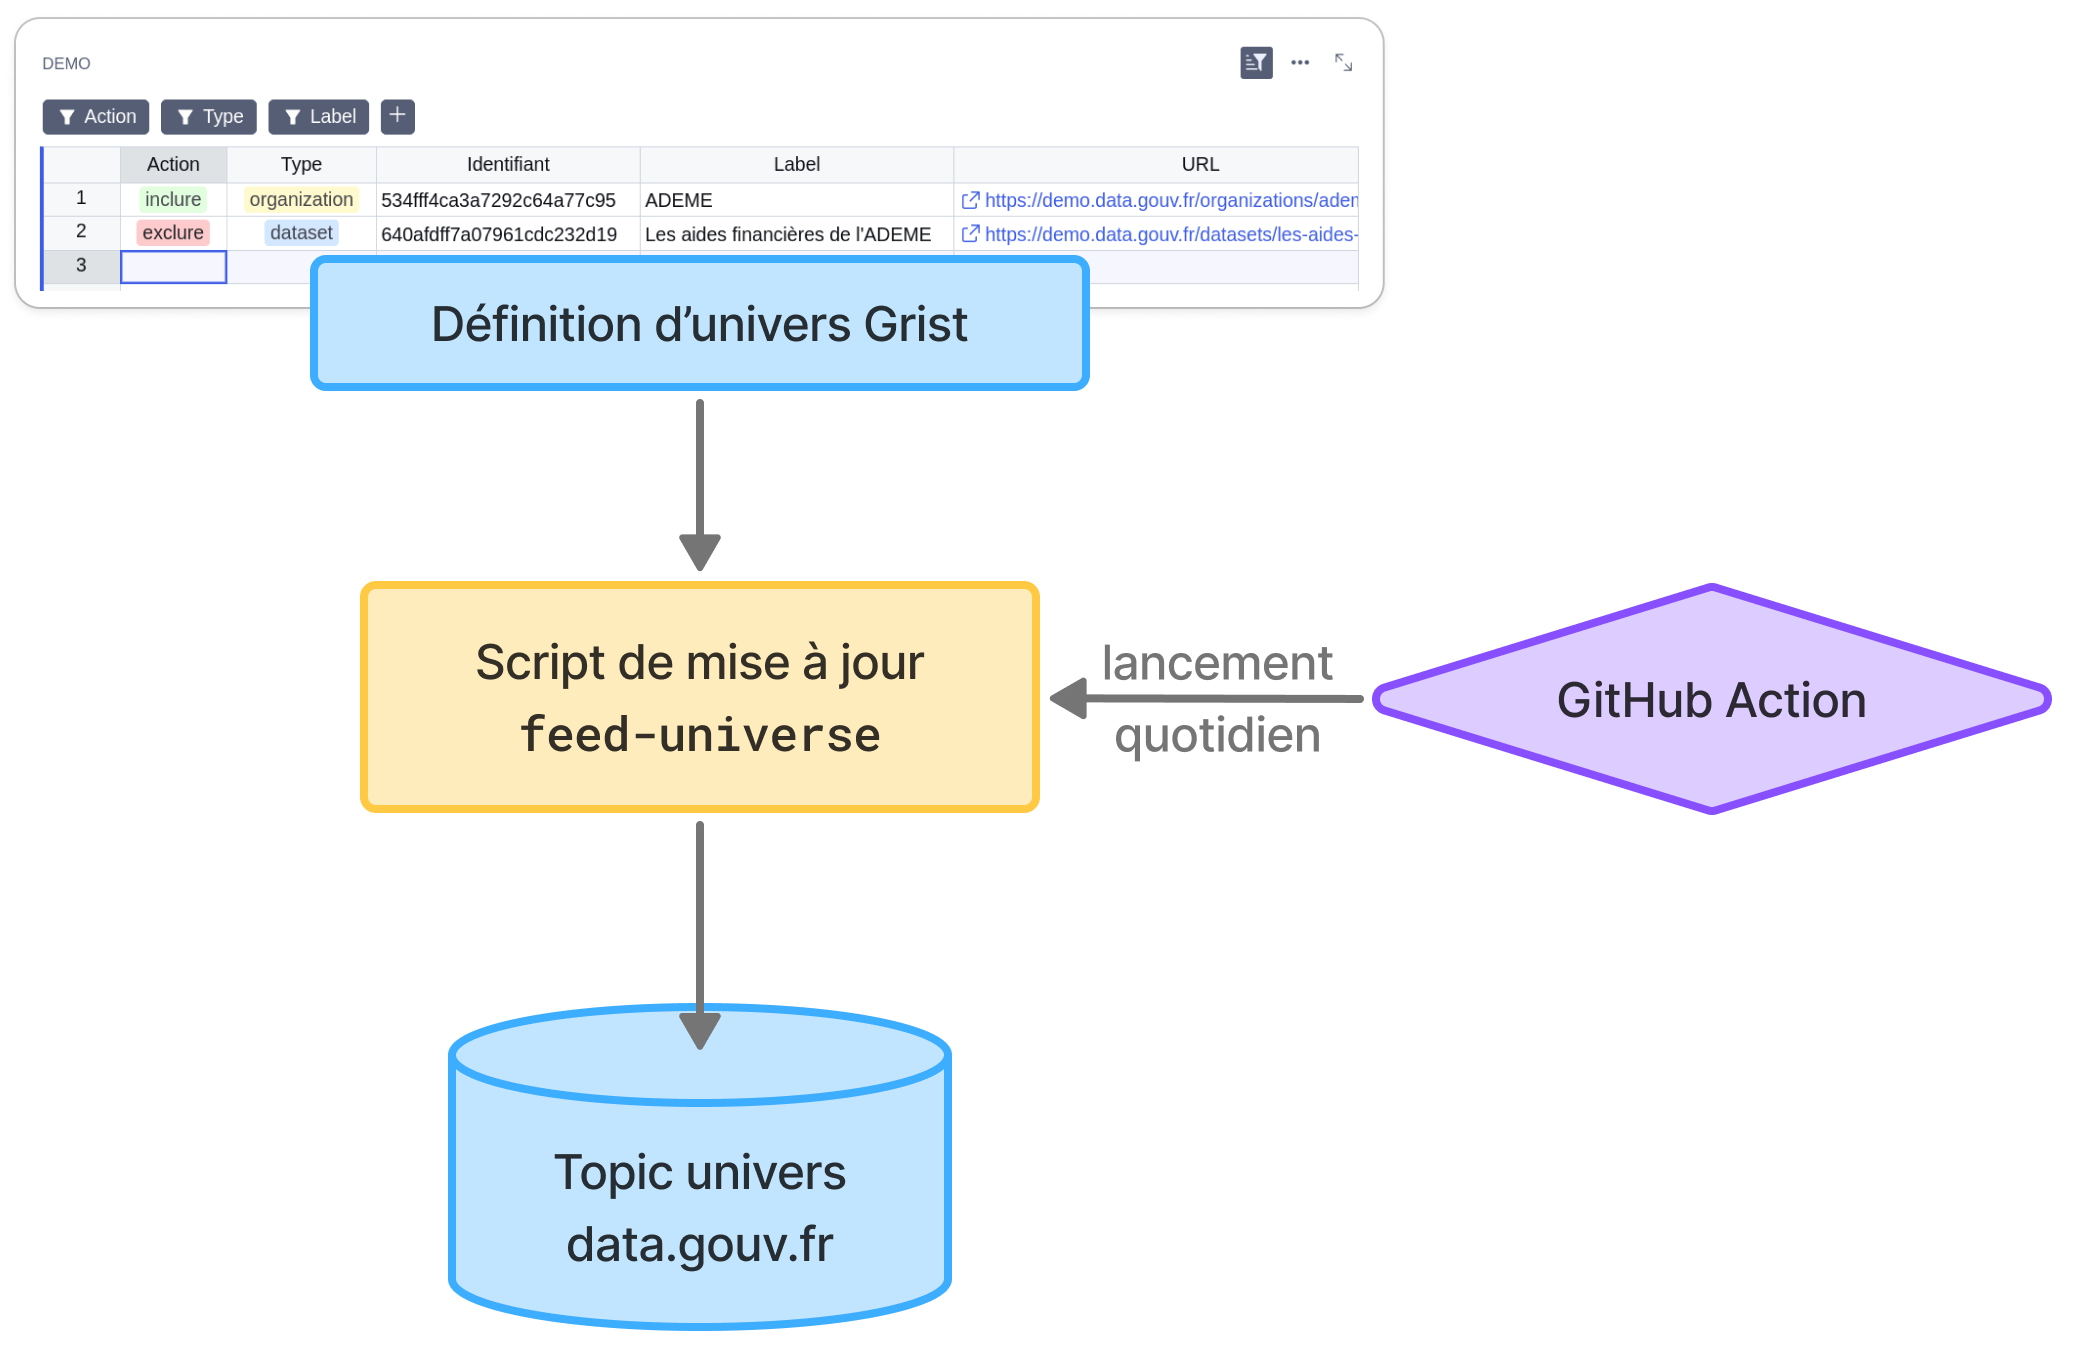
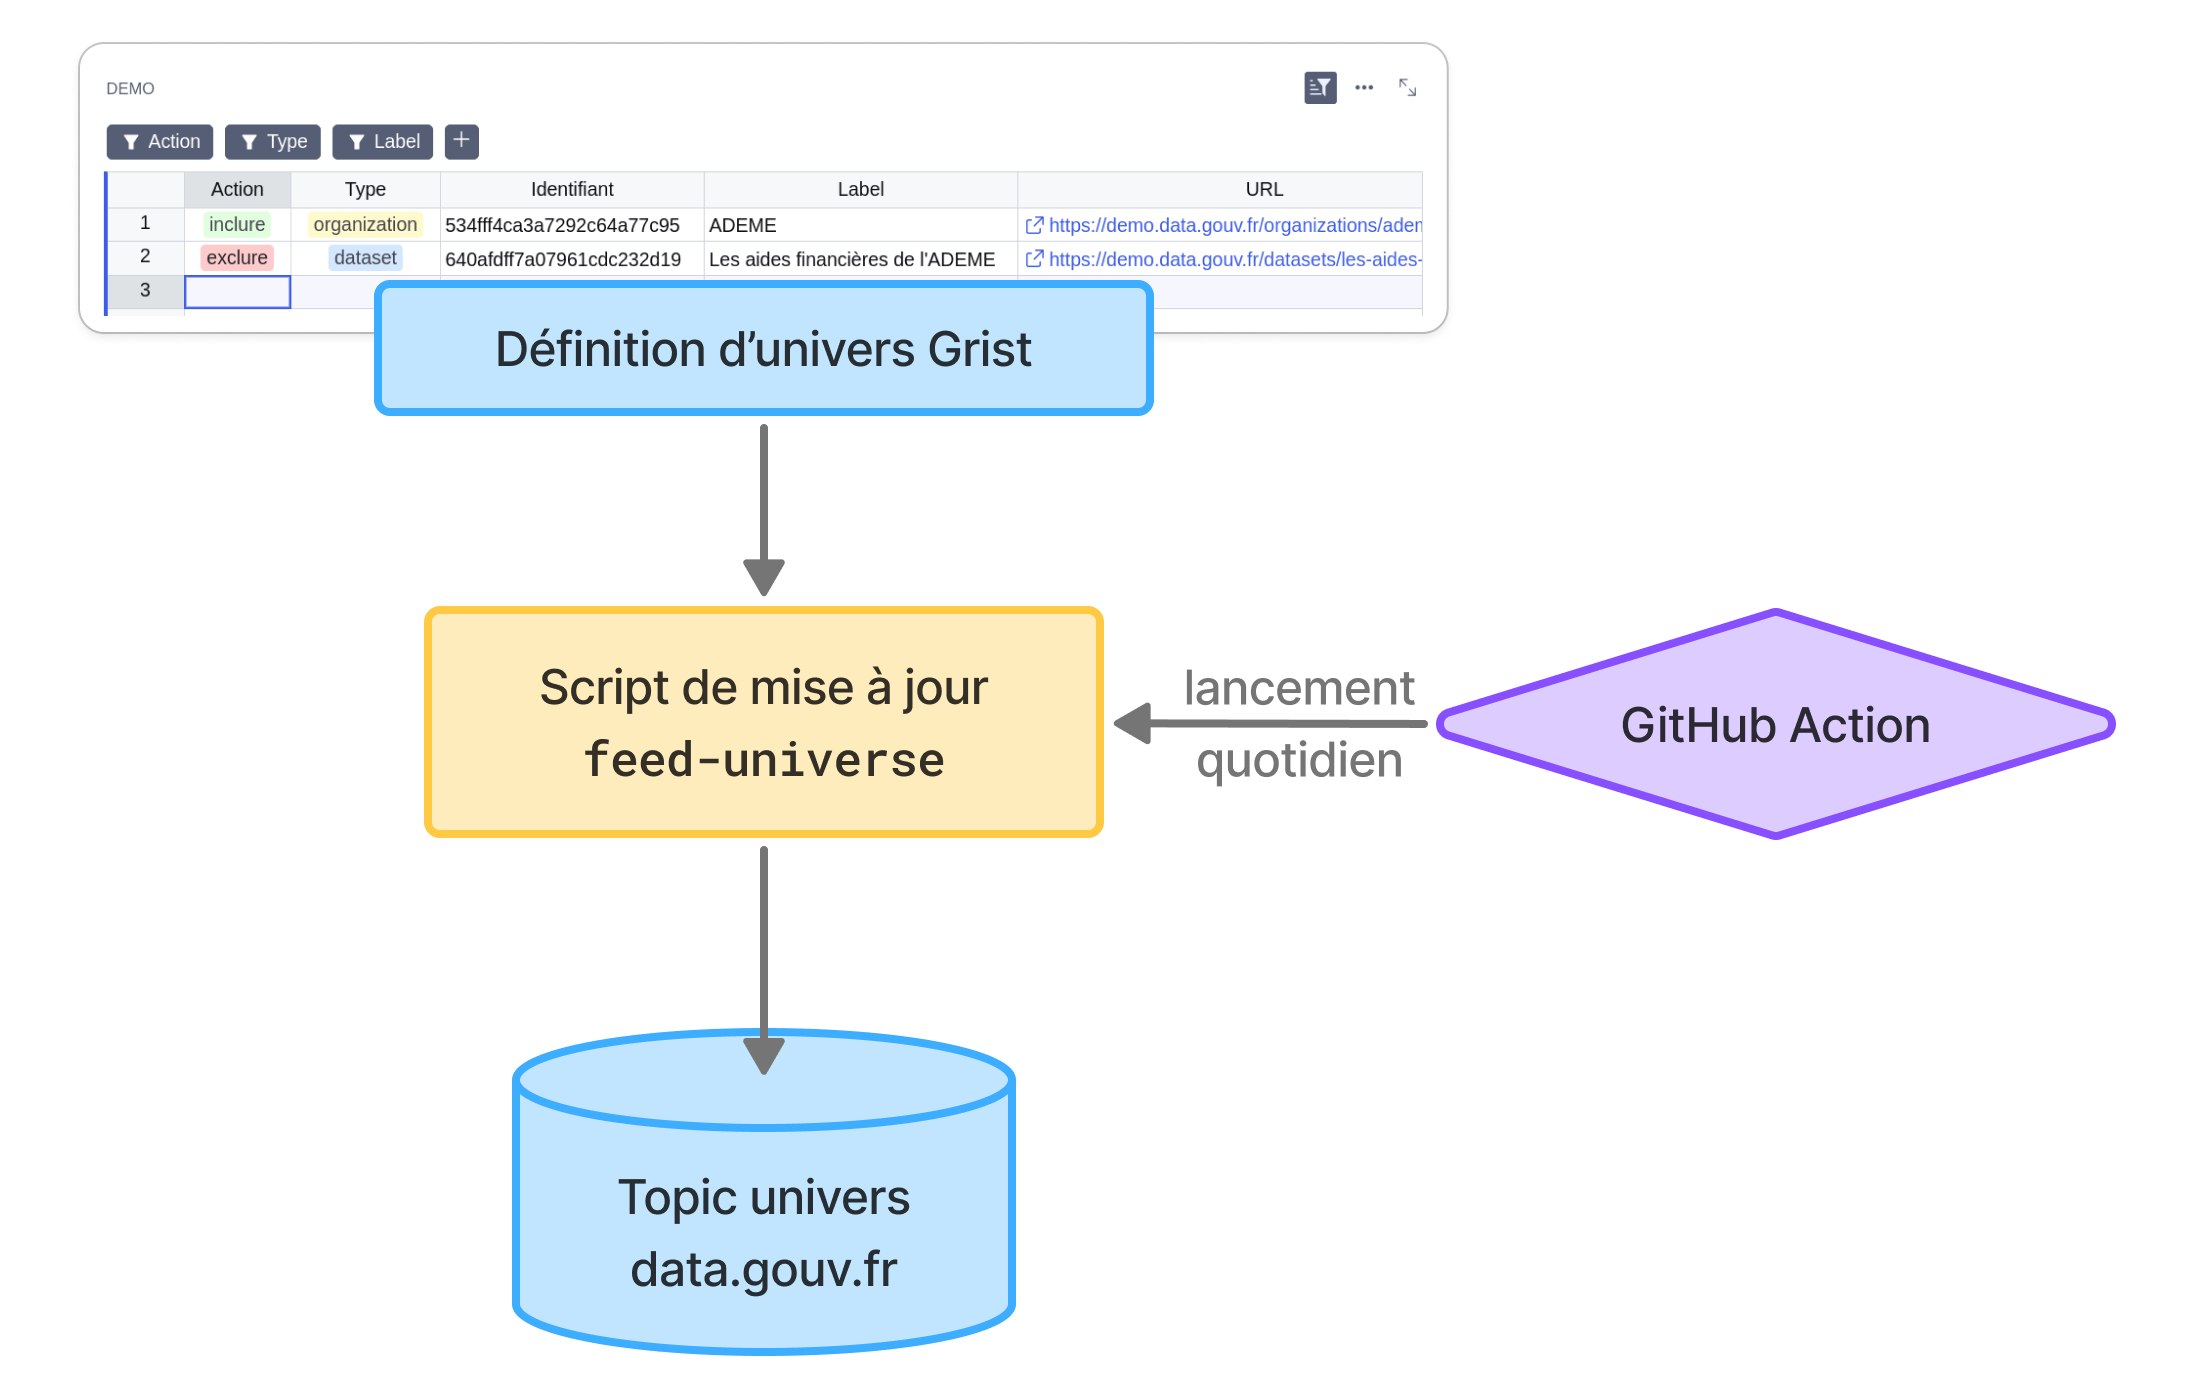
some more crop tests

diff --git a/README.md b/README.md
@@ -5,9 +5,7 @@ Outils permettant de gérer l'univers d'une [verticale data.gouv.fr](https://git
 
 ## Architecture
 
-test
-
-<img alt="Architecture" src=".images/architecture.png" width="700">
+<img alt="Architecture" src=".images/architecture.png">
 
 
 ## Mise en place d'un univers
